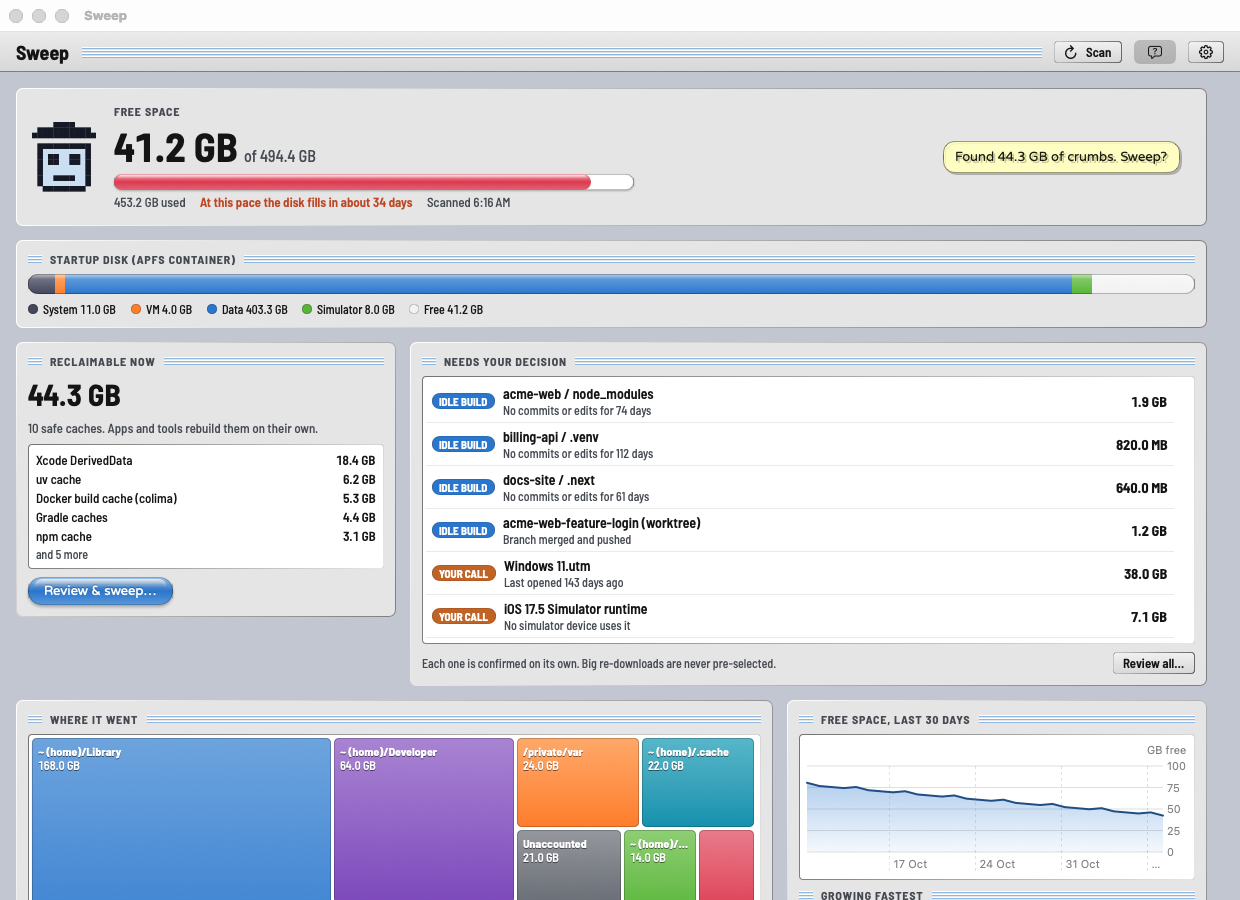
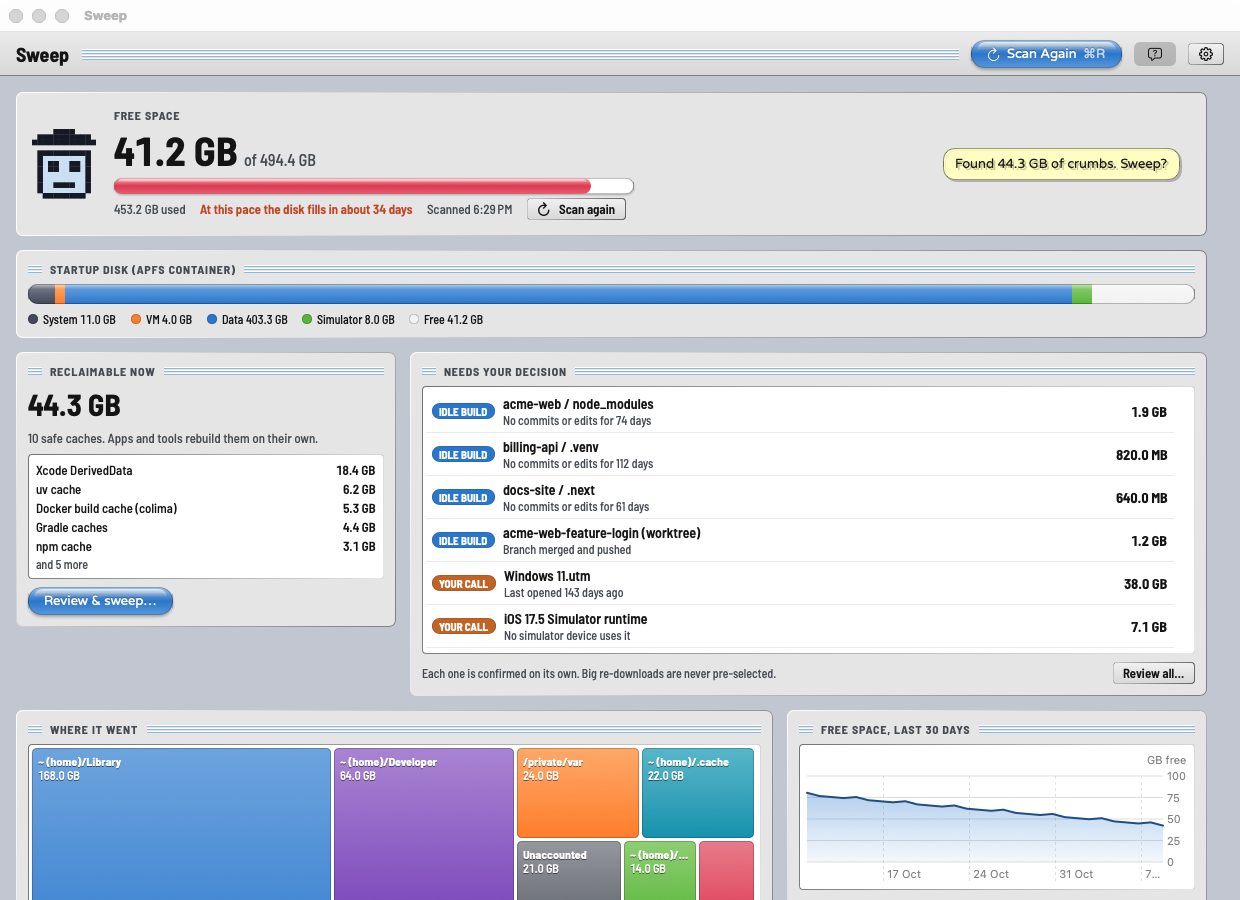
fix(app): make Scan Again prominent on dashboard and results
Coloured Scan Again (⌘R) button in the top bar on dashboard and
verify screens, plus a Scan again button beside the last-scan time.

diff --git a/App/SweepApp/SweepApp.swift b/App/SweepApp/SweepApp.swift
@@ -89,10 +89,19 @@ struct TopBar: View {
             if model.scanning {
                 ProgressView().controlSize(.small)
                 Button("Stop") { model.cancelScan() }.buttonStyle(PlatinumButtonStyle())
-            } else if model.screen == .dashboard {
-                Button { model.scan() } label: { Label("Scan", systemImage: "arrow.clockwise") }
-                    .buttonStyle(PlatinumButtonStyle())
-                    .modifier(BalloonHelp(text: "Measure everything again. Scanning never changes anything.", enabled: model.balloonHelp))
+            } else if model.screen == .dashboard || model.screen == .verify {
+                Button {
+                    if model.screen == .verify { model.finishRun() } else { model.scan() }
+                } label: {
+                    HStack(spacing: 6) {
+                        Image(systemName: "arrow.clockwise")
+                        Text(model.report == nil ? "Scan" : "Scan Again")
+                        Text("⌘R").opacity(0.75)
+                    }
+                }
+                .buttonStyle(GumdropButtonStyle())
+                .help("Measure everything again (⌘R). Scanning never changes anything.")
+                .modifier(BalloonHelp(text: "Measure everything again. Scanning never changes anything.", enabled: model.balloonHelp))
             }
             Toggle(isOn: Binding(get: { model.balloonHelp }, set: { model.balloonHelp = $0 })) {
                 Image(systemName: "questionmark.bubble")

diff --git a/App/SweepApp/Views/DashboardView.swift b/App/SweepApp/Views/DashboardView.swift
@@ -54,6 +54,11 @@ struct HeroPanel: View {
                     }
                     if let r = model.report {
                         Text("Scanned \(r.scannedAt.formatted(date: .omitted, time: .shortened))").font(Fonts.ui(13)).foregroundStyle(p.secondary)
+                        if !model.scanning {
+                            Button { model.scan() } label: { Label("Scan again", systemImage: "arrow.clockwise") }
+                                .buttonStyle(PlatinumButtonStyle())
+                                .help("Measure everything again (⌘R)")
+                        }
                     }
                 }
             }

diff --git a/CHANGELOG.md b/CHANGELOG.md
@@ -1,5 +1,10 @@
 # Changelog
 
+## Unreleased
+
+### Changed
+- **Scan Again is easy to find.** The top bar shows a coloured "Scan Again ⌘R" button on the dashboard and on the results screen, and the dashboard has a "Scan again" button next to the time of the last scan. Before, the only button was small and grey, and it was missing from the results screen.
+
 ## 0.2.0 (2026-11-08)
 
 Open-sourced under the MIT license.
